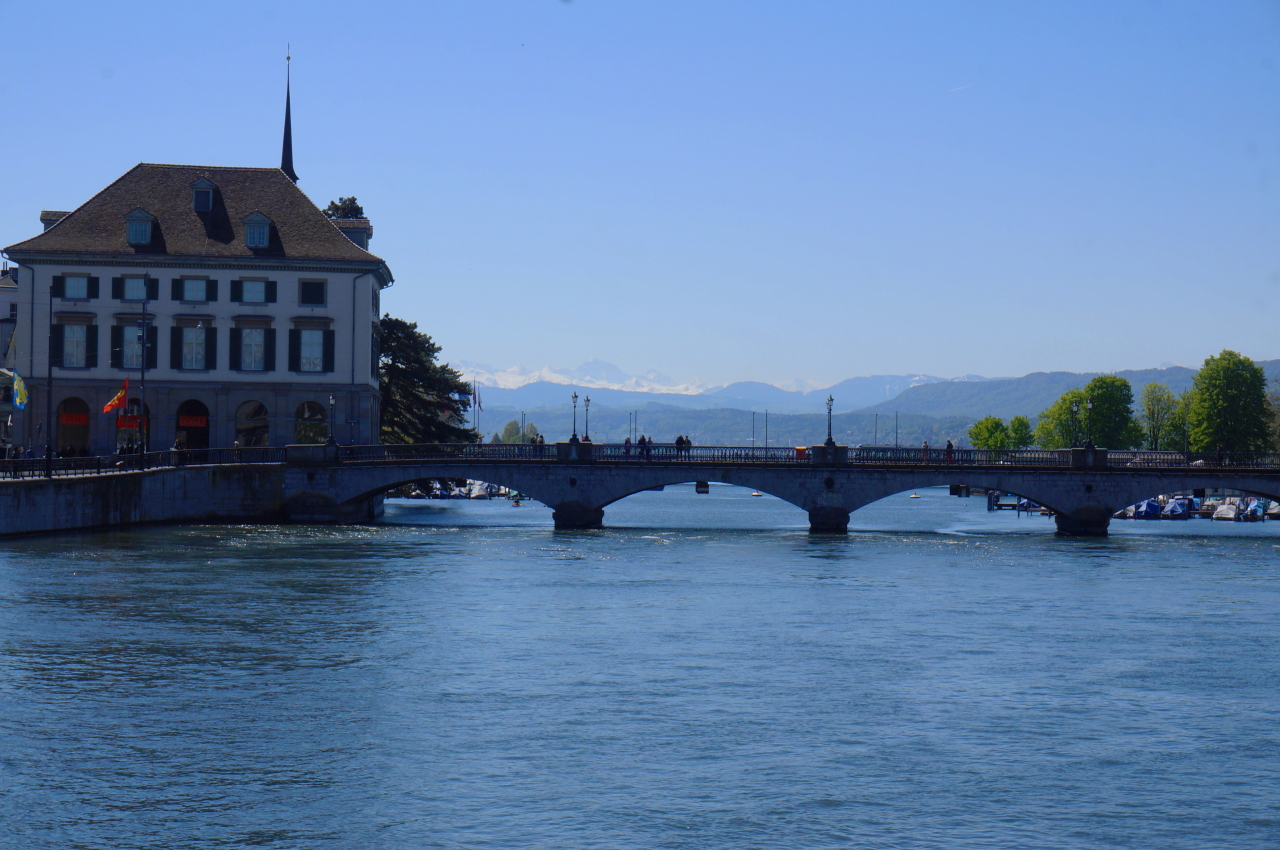
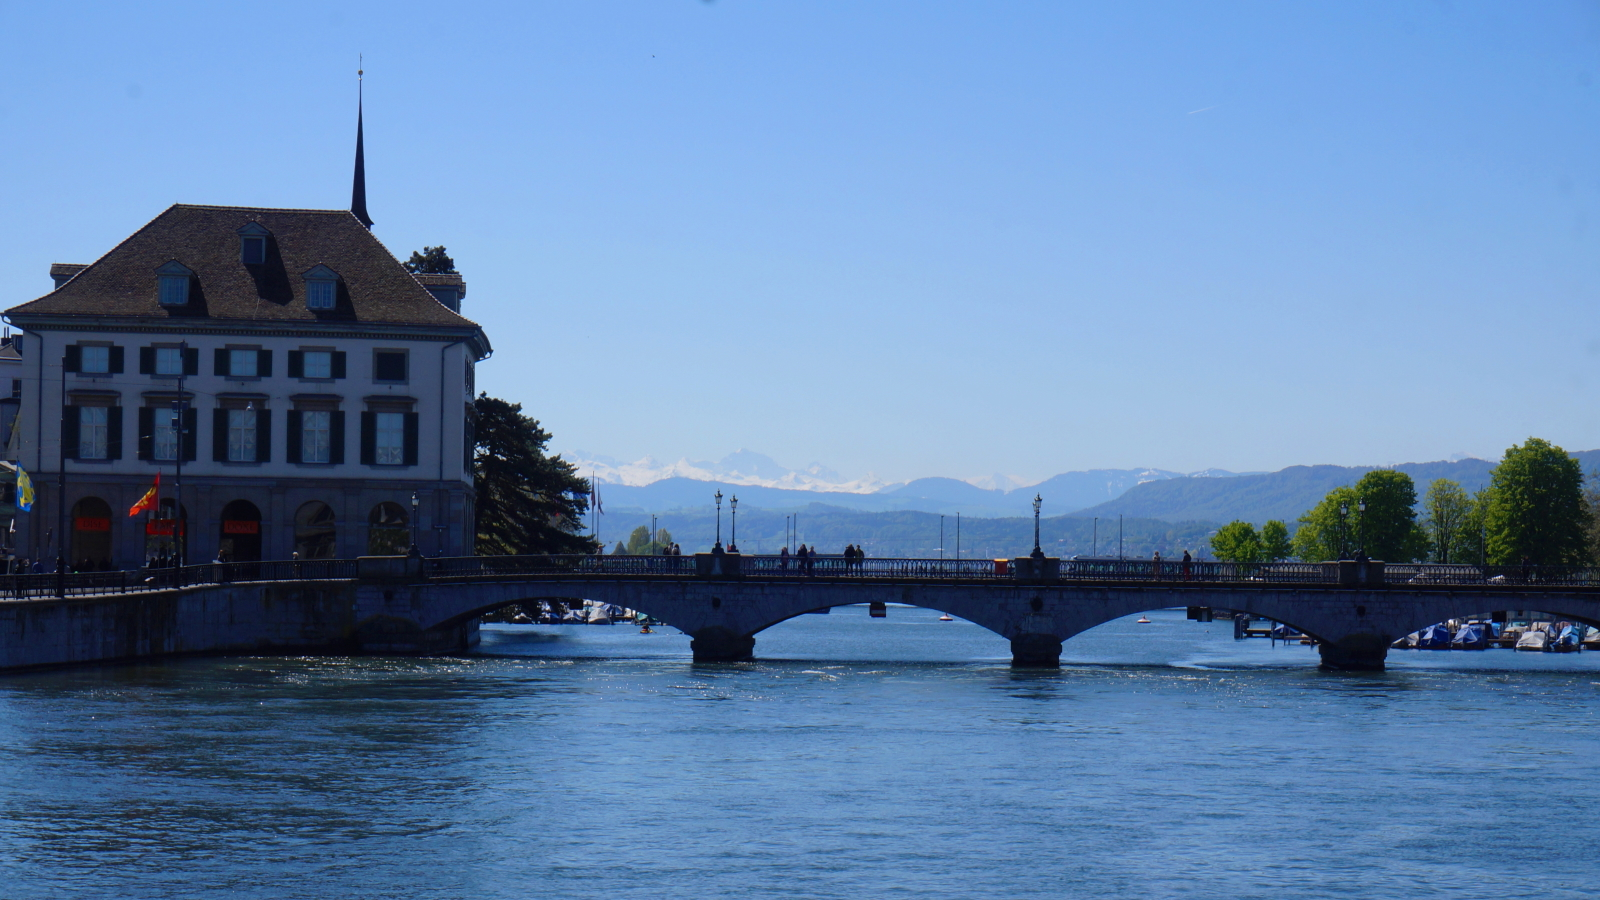
carousel styling

diff --git a/app/assets/stylesheets/master.css.scss b/app/assets/stylesheets/master.css.scss
@@ -29,6 +29,7 @@ body {
   -webkit-box-shadow: 0px 2px 5px 10px rgba(0,0,0,0.56);
   -moz-box-shadow: 0px 2px 5px 10px rgba(0,0,0,0.56);
   box-shadow: 0px 2px 5px 10px rgba(0,0,0,0.56);
+  margin-bottom: 10px;
 }
 
 .navbar-inverse .navbar-brand {
@@ -118,3 +119,24 @@ blockquote p {
   border: 1px solid grey;
   padding: 5px;
   }
+
+.carousel {
+  width: 85%;
+  margin: 0 auto;
+  box-shadow: 4px 8px 15px #2a2a2a;
+}
+
+.carousel-inner > .item > img, .carousel-inner > .item > a > img {
+  max-height: 550px;
+  width: 100%;  
+}
+
+.carousel-caption {
+  font-family: 'exo_2extra_light';
+  font-size: 46px;
+  text-shadow: rgba(0,0,0,0.95) 2px 2px;
+  background-color: rgba(0,0,0,0.5);
+  width: 100%;
+  position: absolute;
+  left: 0;
+}
